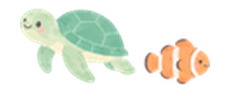
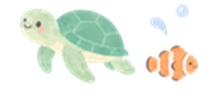
水族館のクマノミをもう少し小さくして、上に泡を入れる

diff --git a/sw.js b/sw.js
@@ -1,5 +1,5 @@
 // アプリの見た目部分だけをキャッシュする。データと写真はSupabaseから毎回取得する。
-const CACHE = 'gohan-v62';
+const CACHE = 'gohan-v63';
 const ASSETS = [
   './',
   './index.html',

diff --git a/CLAUDE.md b/CLAUDE.md
@@ -240,7 +240,7 @@ SupabaseのRow Level Securityで実装する：
     「記録する」と週の並びのあいだとカードどうしのすきまにも小さな動物（zoo-gap*.png）。
     幅481px以上の広い画面だけ、全体に散らした壁紙（zoo-bg.png）にする
     - ガチャのアイコンが出ている人は .toolbar-deco の空きが88pxしかない。
-      zoo-toolbar.png と aquarium-toolbar.png はそこに収まる約176px（表示88px）で作ってある。はしで動物が切れるため。水族館はカメの右に小さめのクマノミを少しあけて置いてある
+      zoo-toolbar.png と aquarium-toolbar.png はそこに収まる約176px（表示88px）で作ってある。はしで動物が切れるため。水族館はカメの右に小さめのクマノミを少しあけて置き、その上に泡を2つ入れてある
     - 壁紙は上の帯（表示95pxぶん）を草だけにして、タイトルや「◯◯さんとして記録中」の
       後ろに動物が来ないようにしてある。重なると字が読みにくい
     - 水族館と動物園は置き場所が同じなので、CSSは大きさ・位置をまとめて書き、
